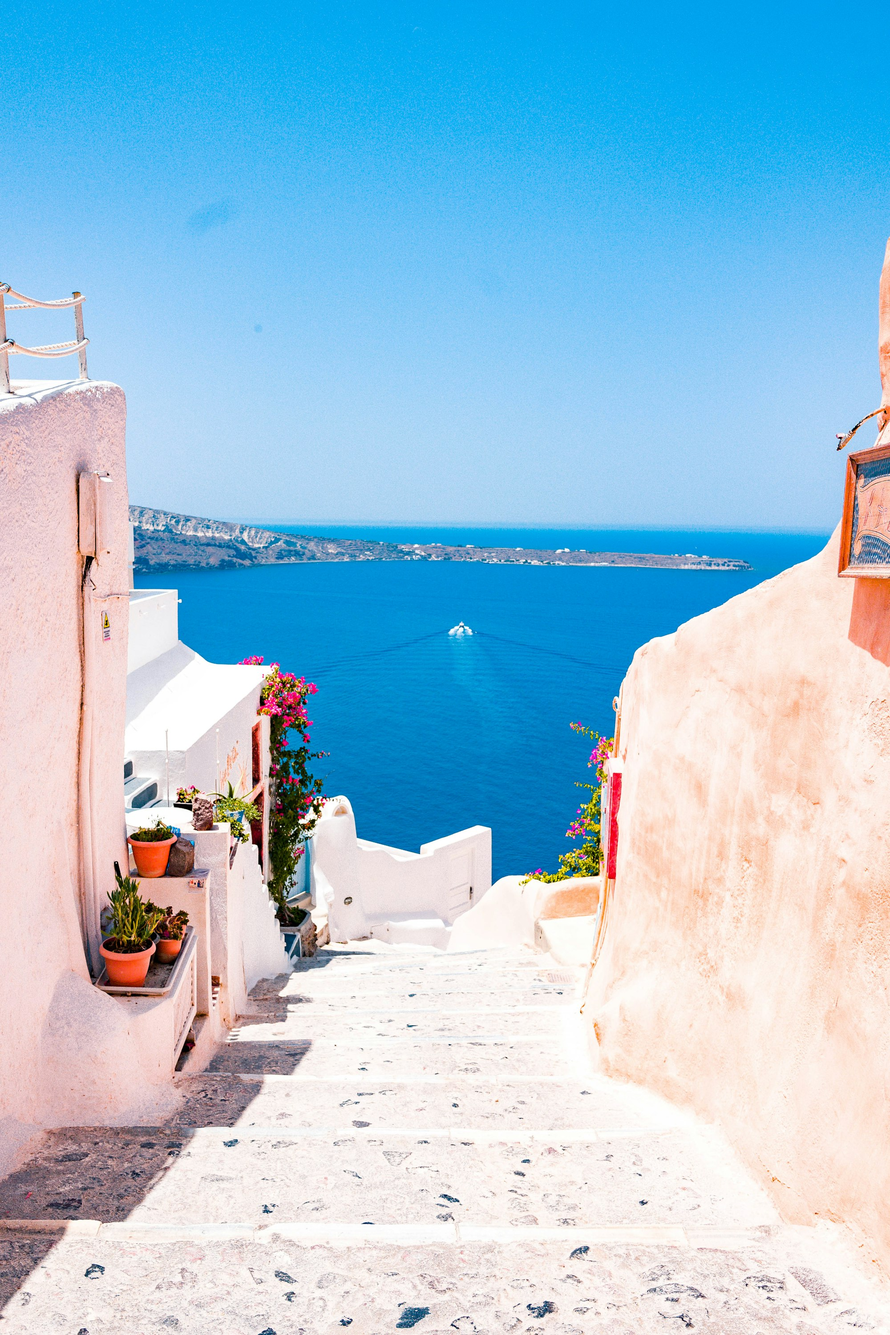
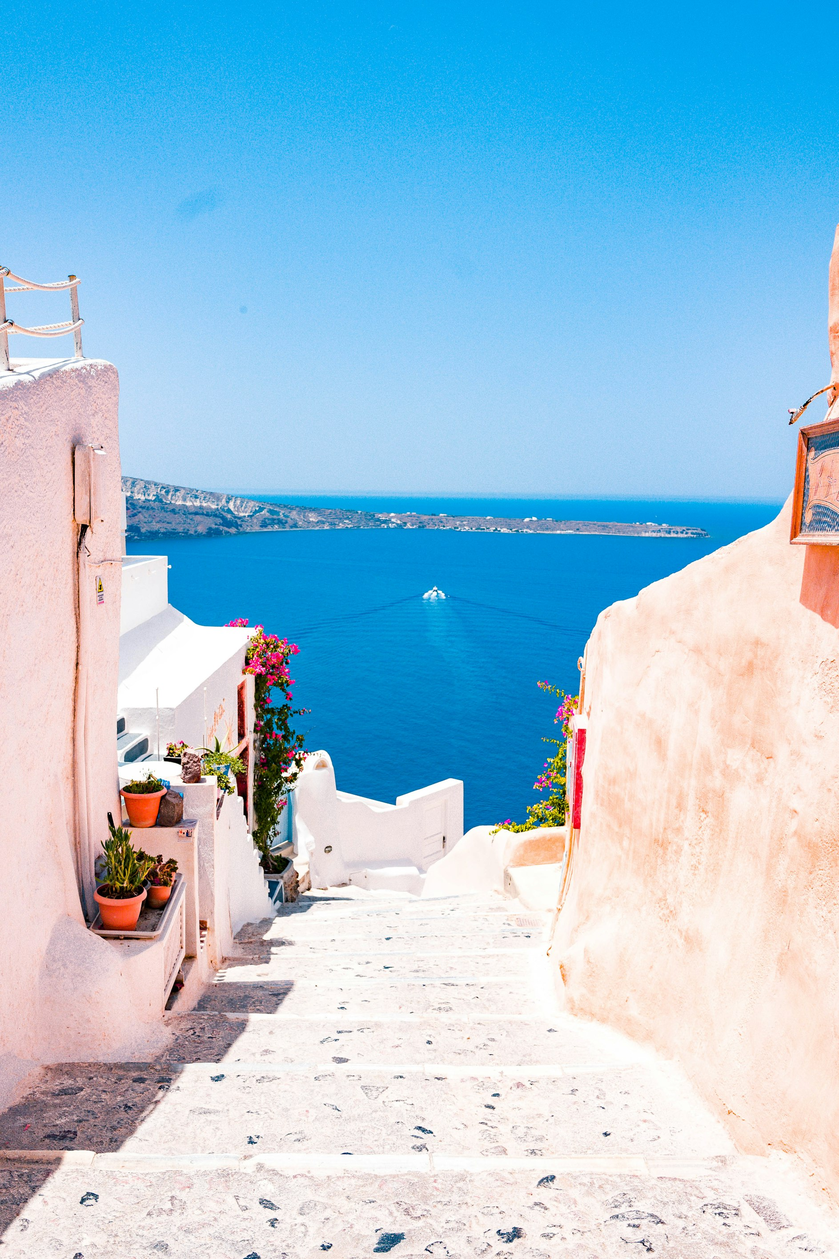
Migrate all destination images to local storage

diff --git a/src/data/destinations.ts b/src/data/destinations.ts
@@ -7,7 +7,7 @@ export const destinations: Destination[] = [
     name: 'Туреччина',
     season: 'Травень - Жовтень',
     seasonIcon: '☀',
-    image: 'https://images.unsplash.com/photo-1524231757912-21f4fe3a7200?q=80&w=2071&auto=format&fit=crop',
+    image: '/images/destinations/turkey.jpg',
     flag: '🇹🇷',
     icon: '🏝',
     desc: 'Країна, де схід зустрічається із заходом. Неймовірні пляжі Анталії та магія Каппадокії.',
@@ -30,7 +30,7 @@ export const destinations: Destination[] = [
     name: 'Іспанія',
     season: 'Червень - Вересень',
     seasonIcon: '☀',
-    image: 'https://images.unsplash.com/photo-1543783207-ec64e4d95325?q=80&w=2070&auto=format&fit=crop',
+    image: '/images/destinations/spain.jpg',
     flag: '🇪🇸',
     icon: '💃',
     desc: 'Фієста, фламенко та неймовірна архітектура. Від Барселони до Тенеріфе.',
@@ -46,7 +46,7 @@ export const destinations: Destination[] = [
     name: 'Греція',
     season: 'Червень - Вересень',
     seasonIcon: '☀',
-    image: 'https://images.unsplash.com/photo-1533105079780-92b9be482077?q=80&w=1887&auto=format&fit=crop',
+    image: '/images/destinations/greece.jpg',
     flag: '🇬🇷',
     icon: '🏺',
     desc: 'Білосніжні будинки Санторіні та антична історія Афін.',
@@ -62,7 +62,7 @@ export const destinations: Destination[] = [
     name: 'Чорногорія',
     season: 'Червень - Вересень',
     seasonIcon: '☀',
-    image: 'https://images.unsplash.com/photo-1565628581077-d5c2a98344e2?q=80&w=2070&auto=format&fit=crop',
+    image: '/images/destinations/montenegro.jpg',
     flag: '🇲🇪',
     icon: '⛰',
     desc: 'Перлина Адріатики. Де гори зустрічаються з морем у неймовірних бухтах.',
@@ -79,7 +79,7 @@ export const destinations: Destination[] = [
     name: 'Албанія',
     season: 'Червень - Вересень',
     seasonIcon: '☀',
-    image: 'https://images.unsplash.com/photo-1627916560934-8c83e1dc2859?q=80&w=2070&auto=format&fit=crop',
+    image: '/images/destinations/albania.jpg',
     flag: '🇦🇱',
     icon: '🏖',
     desc: 'Прихована перлина Балкан. Чисті пляжі Албанської Рив\'єри та стародавні міста.',
@@ -95,7 +95,7 @@ export const destinations: Destination[] = [
     name: 'Франція',
     season: 'Цілий рік',
     seasonIcon: '🗼',
-    image: 'https://images.unsplash.com/photo-1502602898657-3e91760cbb34?q=80&w=2073&auto=format&fit=crop',
+    image: '/images/destinations/france.jpg',
     flag: '🇫🇷',
     icon: '🥐',
     desc: 'Романтика Парижа, лавандові поля Провансу та розкіш Лазурного берега.',
@@ -111,7 +111,7 @@ export const destinations: Destination[] = [
     name: 'Італія',
     season: 'Цілий рік',
     seasonIcon: '🍕',
-    image: 'https://images.unsplash.com/photo-1516483638261-f4dbaf036963?q=80&w=2086&auto=format&fit=crop',
+    image: '/images/destinations/italy.jpg',
     flag: '🇮🇹',
     icon: '🎭',
     desc: 'Музей просто неба. Колізей, канали Венеції та мода Мілану.',
@@ -127,7 +127,7 @@ export const destinations: Destination[] = [
     name: 'Хорватія',
     season: 'Червень - Вересень',
     seasonIcon: '☀',
-    image: 'https://images.unsplash.com/photo-1555990538-1a525cf156dc?q=80&w=1964&auto=format&fit=crop',
+    image: '/images/destinations/croatia.jpg',
     flag: '🇭🇷',
     icon: '🌊',
     desc: 'Країна тисячі островів. Кришталево чисте море та Дубровник.',
@@ -143,7 +143,7 @@ export const destinations: Destination[] = [
     name: 'Болгарія',
     season: 'Червень - Вересень',
     seasonIcon: '🌻',
-    image: 'https://images.unsplash.com/photo-1533496033878-a0033ad0d075?q=80&w=2070&auto=format&fit=crop',
+    image: '/images/destinations/bulgaria.jpg',
     flag: '🇧🇬',
     icon: '🏖',
     desc: 'Золоті піски та гостинність. Ідеально для сімейного відпочинку.',
@@ -159,7 +159,7 @@ export const destinations: Destination[] = [
     name: 'Кіпр',
     season: 'Травень - Листопад',
     seasonIcon: '🍇',
-    image: 'https://images.unsplash.com/photo-1530847937395-5853514a311b?q=80&w=2070&auto=format&fit=crop',
+    image: '/images/destinations/cyprus.jpg',
     flag: '🇨🇾',
     icon: '🏝',
     desc: 'Острів Афродіти. Сонце 300 днів на рік та смачна кухня.',
@@ -175,7 +175,7 @@ export const destinations: Destination[] = [
     name: 'Чехія',
     season: 'Цілий рік',
     seasonIcon: '🏰',
-    image: 'https://images.unsplash.com/photo-1563806758-cba92d6e3556?q=80&w=2070&auto=format&fit=crop',
+    image: '/images/destinations/czechia.jpg',
     flag: '🇨🇿',
     icon: '🍺',
     desc: 'Серце Європи. Містична Прага, замки та найкраще пиво.',
@@ -194,7 +194,7 @@ export const destinations: Destination[] = [
     name: 'ОАЕ',
     season: 'Жовтень - Квітень',
     seasonIcon: '🏙',
-    image: 'https://images.unsplash.com/photo-1512453979798-5ea266f8880c?q=80&w=2070&auto=format&fit=crop',
+    image: '/images/destinations/uae.jpg',
     flag: '🇦🇪',
     icon: '🌃',
     desc: 'Дубай - місто майбутнього. Розкіш, хмарочоси та пустеля.',
@@ -210,7 +210,7 @@ export const destinations: Destination[] = [
     name: 'Таїланд',
     season: 'Листопад - Березень',
     seasonIcon: '🍜',
-    image: 'https://images.unsplash.com/photo-1552465011-b4e21bf6e79a?q=80&w=2039&auto=format&fit=crop',
+    image: '/images/destinations/thailand.jpg',
     flag: '🇹🇭',
     icon: '🐘',
     desc: 'Країна посмішок. Екзотичні храми, неймовірна природа та смачна їжа.',
@@ -226,7 +226,7 @@ export const destinations: Destination[] = [
     name: 'Шрі-Ланка',
     season: 'Цілий рік',
     seasonIcon: '🍵',
-    image: 'https://images.unsplash.com/photo-1586518175571-000c0245a16d?q=80&w=2070&auto=format&fit=crop',
+    image: '/images/destinations/srilanka.jpg',
     flag: '🇱🇰',
     icon: '🐆',
     desc: 'Острів чаю та слонів. Тропічні ліси, океан та давні храми.',
@@ -242,7 +242,7 @@ export const destinations: Destination[] = [
     name: 'Індонезія (Балі)',
     season: 'Квітень - Жовтень',
     seasonIcon: '🏄',
-    image: 'https://images.unsplash.com/photo-1537996194471-e657df975ab4?q=80&w=2076&auto=format&fit=crop',
+    image: '/images/destinations/indonesia.jpg',
     flag: '🇮🇩',
     icon: '🧘',
     desc: 'Острів Богів. Джунглі Убуда, вулкани та неймовірні заходи сонця.',
@@ -258,7 +258,7 @@ export const destinations: Destination[] = [
     name: 'Мальдіви',
     season: 'Цілий рік',
     seasonIcon: '🥥',
-    image: 'https://images.unsplash.com/photo-1514282401047-d79a71a590e8?q=80&w=1965&auto=format&fit=crop',
+    image: '/images/destinations/maldives.jpg',
     flag: '🇲🇻',
     icon: '🏖',
     desc: 'Рай на землі. Приватні вілли на воді та білосніжний пісок.',
@@ -274,7 +274,7 @@ export const destinations: Destination[] = [
     name: 'В\'єтнам',
     season: 'Листопад - Квітень',
     seasonIcon: '🏮',
-    image: 'https://images.unsplash.com/photo-1528127269322-539801943592?q=80&w=2070&auto=format&fit=crop',
+    image: '/images/destinations/vietnam.jpg',
     flag: '🇻🇳',
     icon: '🍜',
     desc: 'Країна дракона. Бухта Халонг, смачна вулична їжа та кава.',
@@ -290,7 +290,7 @@ export const destinations: Destination[] = [
     name: 'Грузія',
     season: 'Цілий рік',
     seasonIcon: '🍷',
-    image: 'https://images.unsplash.com/photo-1565008576549-57569a49371d?q=80&w=2070&auto=format&fit=crop',
+    image: '/images/destinations/georgia.jpg',
     flag: '🇬🇪',
     icon: '🏔',
     desc: 'Гостинність та гори. Вино, хачапурі та неймовірні краєвиди Кавказу.',
@@ -309,7 +309,7 @@ export const destinations: Destination[] = [
     name: 'Єгипет',
     season: 'Жовтень - Травень',
     seasonIcon: '☀',
-    image: 'https://images.unsplash.com/photo-1572252009286-268acec5ca0a?q=80&w=2070&auto=format&fit=crop',
+    image: '/images/destinations/egypt.jpg',
     flag: '🇪🇬',
     icon: '🐫',
     desc: 'Колиска цивілізації. Відкрийте для себе велич пірамід та красу Червоного моря.',
@@ -325,7 +325,7 @@ export const destinations: Destination[] = [
     name: 'Туніс',
     season: 'Квітень - Жовтень',
     seasonIcon: '☀',
-    image: 'https://images.unsplash.com/photo-1549646006-21696b99c71c?q=80&w=2070&auto=format&fit=crop',
+    image: '/images/destinations/tunisia.jpg',
     flag: '🇹🇳',
     icon: '🏜',
     desc: 'Північноафриканська екзотика. Пісок Сахари, Середземне море та карфагенські руїни.',
@@ -341,7 +341,7 @@ export const destinations: Destination[] = [
     name: 'Занзібар (Танзанія)',
     season: 'Червень - Лютий',
     seasonIcon: '🌴',
-    image: 'https://images.unsplash.com/photo-1582283965903-88544c92b238?q=80&w=2070&auto=format&fit=crop',
+    image: '/images/destinations/zanzibar.jpg',
     flag: '🇹🇿',
     icon: '🏝',
     desc: 'Тропічний рай в Індійському океані. Білосніжні пляжі та екзотична африканська культура.',
@@ -357,7 +357,7 @@ export const destinations: Destination[] = [
     name: 'Кенія',
     season: 'Січень - Березень',
     seasonIcon: '🦁',
-    image: 'https://images.unsplash.com/photo-1489396160836-2c99c977e970?q=80&w=2070&auto=format&fit=crop',
+    image: '/images/destinations/kenya.jpg',
     flag: '🇰🇪',
     icon: '🦓',
     desc: 'Справжнє сафарі. Велика міграція тварин, масаї та Індійський океан.',
@@ -375,7 +375,7 @@ export const destinations: Destination[] = [
     name: 'Домінікана',
     season: 'Цілий рік',
     seasonIcon: '🌴',
-    image: 'https://images.unsplash.com/photo-1540206395-688085723adb?q=80&w=2021&auto=format&fit=crop',
+    image: '/images/destinations/dominican.jpg',
     flag: '🇩🇴',
     icon: '🥥',
     desc: 'Справжній карибський рай. Білий пісок, пальми та безтурботність.',
@@ -391,7 +391,7 @@ export const destinations: Destination[] = [
     name: 'Мексика',
     season: 'Листопад - Квітень',
     seasonIcon: '🌮',
-    image: 'https://images.unsplash.com/photo-1512813195386-6cf811ad3542?q=80&w=2070&auto=format&fit=crop',
+    image: '/images/destinations/mexico.jpg',
     flag: '🇲🇽',
     icon: '🌵',
     desc: 'Країна майя та ацтеків. Карибське море, сеноти та гостра кухня.',
@@ -407,7 +407,7 @@ export const destinations: Destination[] = [
     name: 'Куба',
     season: 'Листопад - Квітень',
     seasonIcon: '🚗',
-    image: 'https://images.unsplash.com/photo-1500755914291-73898bd033d4?q=80&w=2070&auto=format&fit=crop',
+    image: '/images/destinations/cuba.jpg',
     flag: '🇨🇺',
     icon: '🍹',
     desc: 'Острів Свободи. Ретро-автомобілі, сигари та найкращі пляжі Варадеро.',
